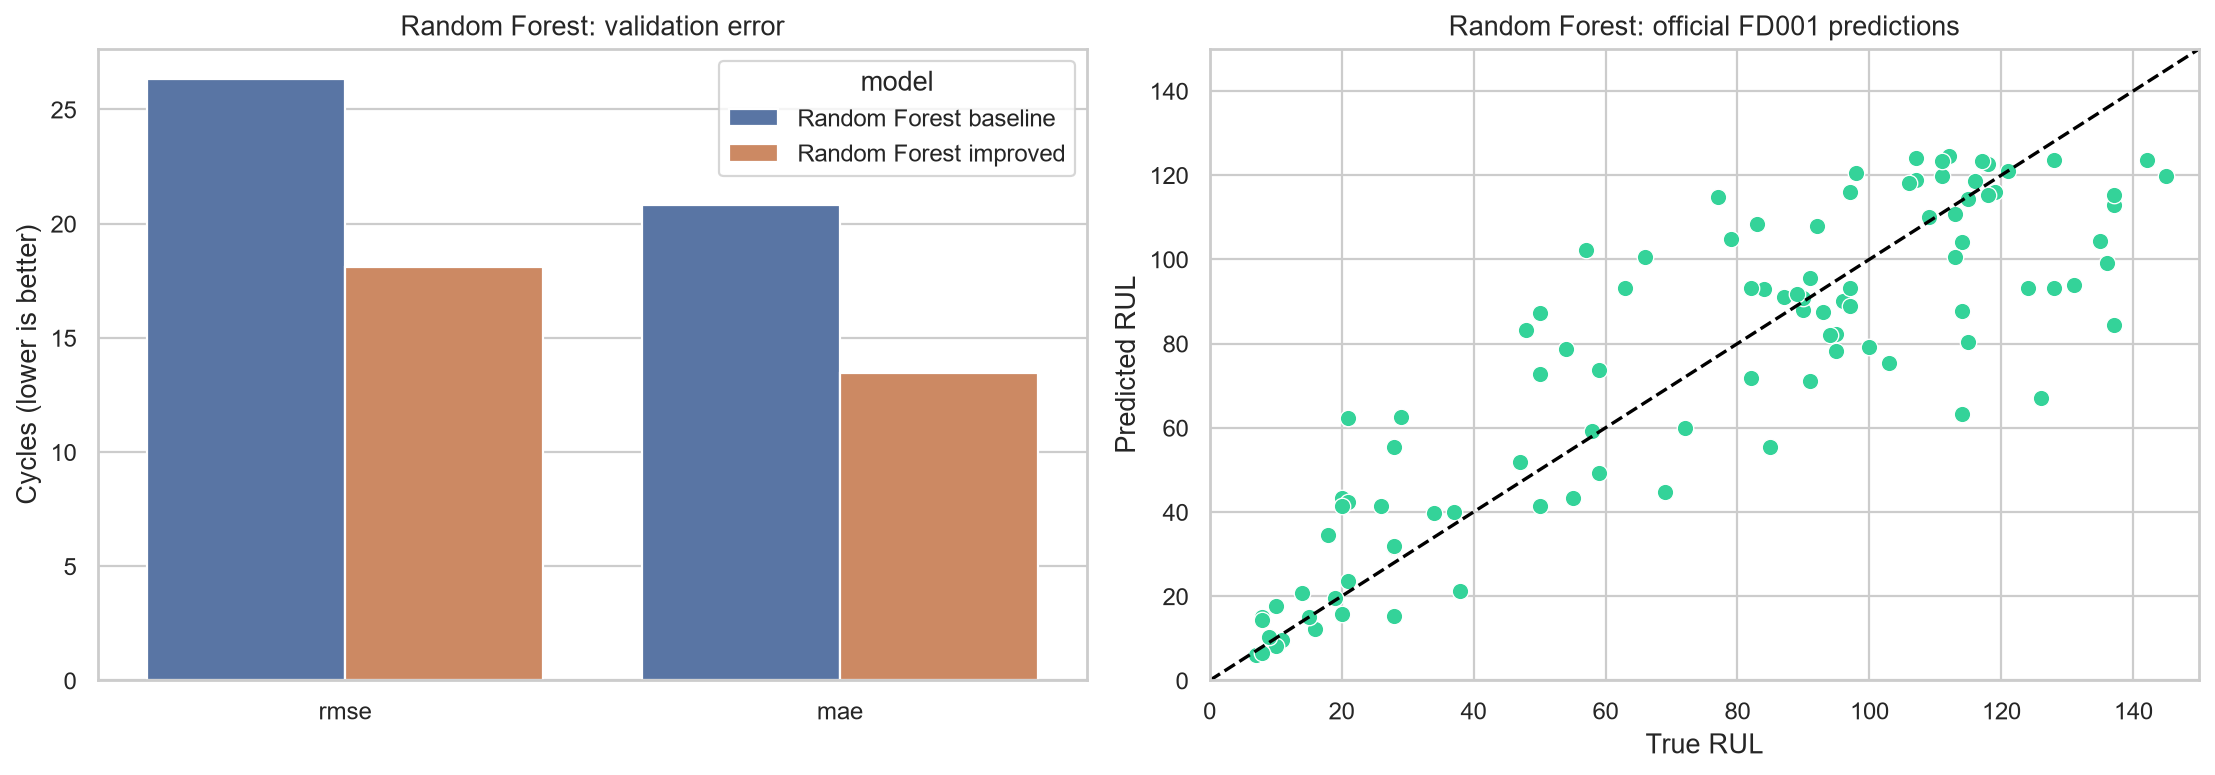
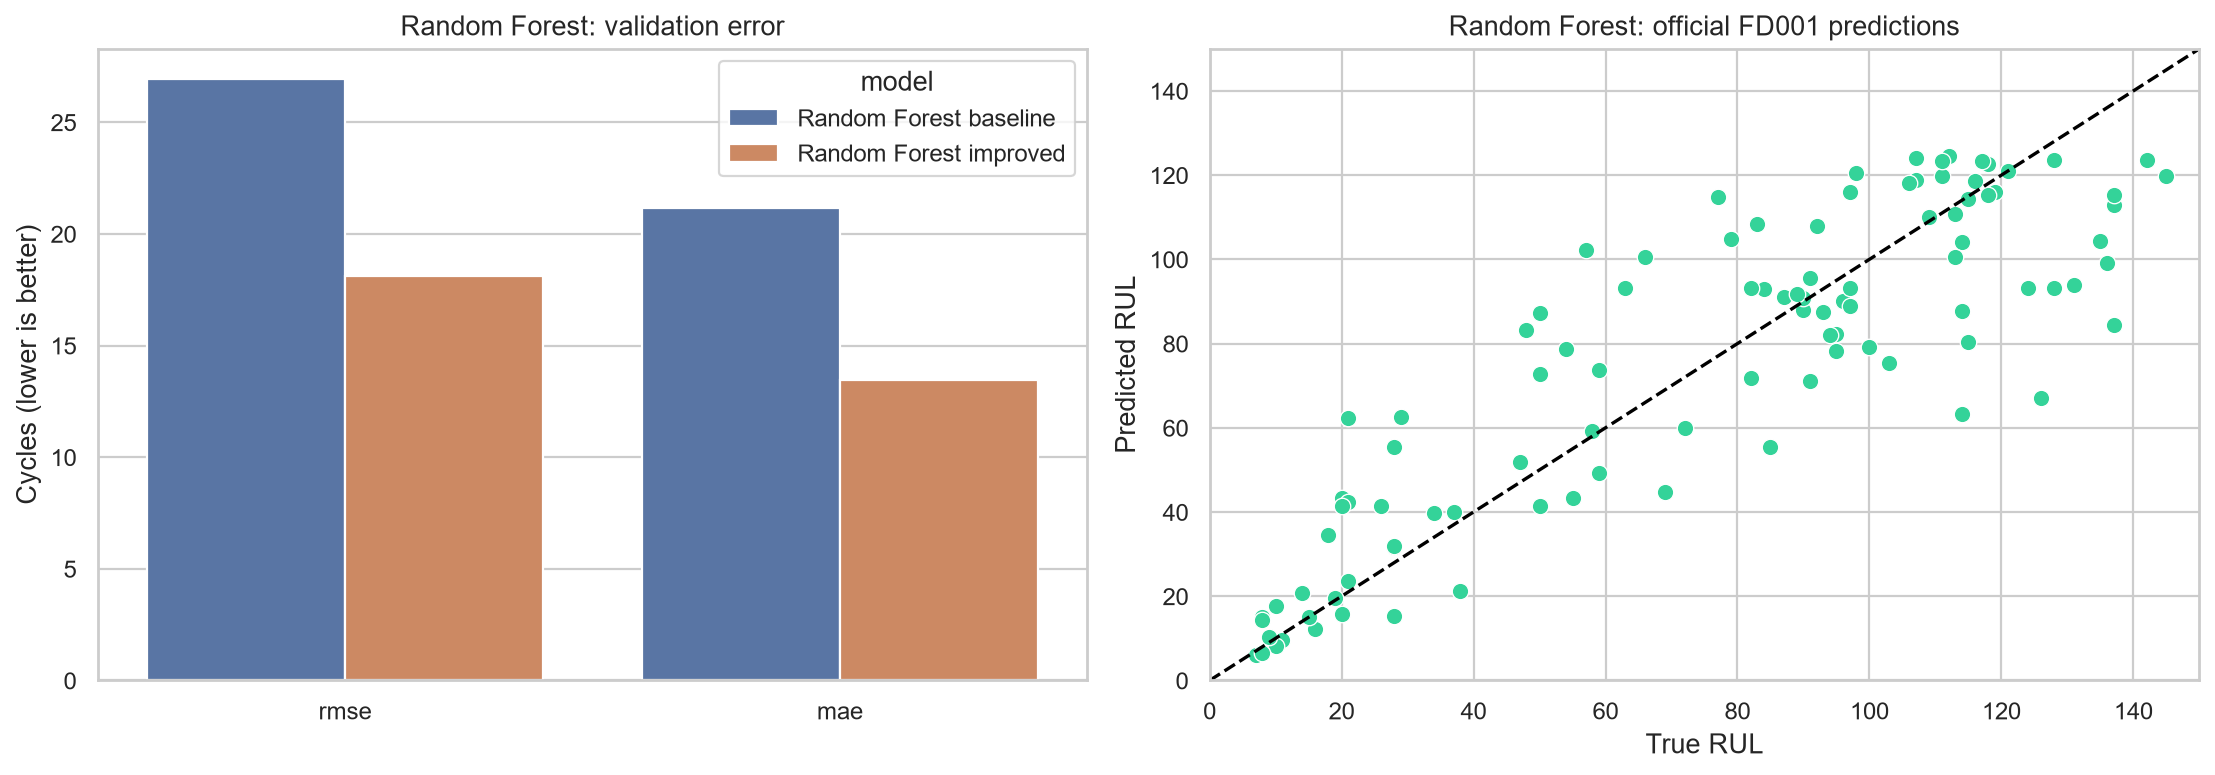
results: add FD001 Ridge experiment

diff --git a/README.md b/README.md
@@ -4,9 +4,10 @@ An NTI machine-learning project that predicts the Remaining Useful Life (RUL) of
 
 ## Project Status
 
-**Phase:** Dataset validation and experiment design
+**Phase:** Four FD001 models complete; final comparison and scenario expansion
 
-The repository foundation and local dataset are ready. Data-loading, exploratory-analysis, feature-engineering, and baseline-model milestones follow.
+The repository foundation, local FD001 dataset, shared feature pipeline, four
+trained model packages, and local comparison dashboard are ready.
 
 ## Problem Statement
 
@@ -70,6 +71,36 @@ The final comparison will report:
 
 Engine IDs, not individual sensor rows, define validation groups. This prevents readings from the same engine appearing in both training and validation data.
 
+## Model 1: FD001 Ridge Regression Results
+
+Model 1 is a scaled Ridge regressor that provides a fast, interpretable linear
+baseline. Its improved version uses the same selected sensors, causal rolling
+features, validation engines, and capped target as Models 2–4. Alpha was chosen
+using validation results only; the expanded search selected `alpha=1000`.
+
+| Experiment | RMSE | MAE | R² | NASA score |
+|---|---:|---:|---:|---:|
+| Ridge baseline validation | 31.11 | 25.98 | -0.481 | 1006.40 |
+| Ridge improved validation | **16.38** | **14.11** | **0.589** | **83.36** |
+| Ridge improved official FD001 test | **21.98** | **17.33** | **0.720** | **961.65** |
+
+Feature engineering and regularization reduced validation RMSE by **14.73
+cycles (47.3%)**. Standardized coefficients are saved in
+[`results/metrics/ridge_fd001_coefficients.csv`](results/metrics/ridge_fd001_coefficients.csv)
+for interpretation.
+
+The submitted Logistic Regression classified whether maintenance was needed
+within 30 cycles. It was not reused as Model 1 because that binary target and its
+accuracy/F1 metrics are incompatible with continuous RUL prediction and the
+shared regression leaderboard.
+
+To train or reuse the cached Ridge artifacts:
+
+```powershell
+conda activate nti-cmapss
+python scripts/train_ridge.py
+```
+
 ## Model 2: FD001 Scratch Random Forest Results
 
 Model 2 intentionally uses a hand-written NumPy Random Forest rather than
@@ -80,12 +111,12 @@ feature importance are implemented in
 
 | Experiment | RMSE | MAE | R² | NASA score |
 |---|---:|---:|---:|---:|
-| Scratch baseline validation | 26.34 | 20.81 | -0.061 | 392.00 |
+| Scratch baseline validation | 26.94 | 21.15 | -0.110 | 470.50 |
 | Scratch improved validation | **18.13** | **13.46** | **0.497** | **114.68** |
 | Scratch improved official FD001 test | **20.70** | **15.71** | **0.752** | **841.82** |
 
-The shared engineered features reduced validation RMSE by **8.22 cycles
-(31.2%)**. The implementation is CPU-only and trains more slowly than optimized
+The shared engineered features reduced validation RMSE by **8.82 cycles
+(32.7%)**. The implementation is CPU-only and trains more slowly than optimized
 library implementations, but uses the same split, target, features, and metrics
 as Models 3 and 4 for a fair comparison.
 
@@ -140,17 +171,19 @@ Each model has an independent training entry point. Training saves the fitted mo
 
 ```powershell
 conda activate nti-cmapss
+python scripts/train_ridge.py
+python scripts/train_random_forest.py
 python scripts/train_xgboost.py
 python scripts/train_catboost.py
-python scripts/train_random_forest.py
 ```
 
 All training scripts reuse valid cached artifacts. Add `--force` only when you intentionally want to retrain:
 
 ```powershell
+python scripts/train_ridge.py --force
+python scripts/train_random_forest.py --force
 python scripts/train_xgboost.py --force
 python scripts/train_catboost.py --force
-python scripts/train_random_forest.py --force
 ```
 
 The root [`main.py`](main.py) is a local Streamlit dashboard. It reads saved artifacts for model comparison, diagnostics, and uploaded-engine inference. It never imports a training script or trains a model:
@@ -162,7 +195,7 @@ streamlit run main.py
 
 Open `http://127.0.0.1:8501` if the browser does not open automatically. The app is bound to your own computer only, is not deployed or published, and stops when its terminal process stops.
 
-Model binaries live in `models/`. Metrics, predictions, and figures live under `results/`. Metadata in `models/metadata/` tells Streamlit how to connect those artifacts. Ridge appears as waiting until Model 1 is replaced with a compatible RUL-regression package.
+Model binaries live in `models/`. Metrics, predictions, and figures live under `results/`. Metadata in `models/metadata/` tells Streamlit how to connect those artifacts. All four FD001 model packages are complete and load without retraining in the local dashboard.
 
 ## Workflow
 
@@ -201,7 +234,7 @@ Each task should have a GitHub Issue, a focused branch, and a pull request revie
 - [x] Add data-loading and schema-validation code
 - [x] Add exploratory analysis for FD001
 - [x] Add group-aware validation and common metrics
-- [ ] Train and improve all four models
+- [x] Train and improve all four FD001 models
 - [ ] Compare scenarios and prepare the final report
 
 ## Scope and Limitations
